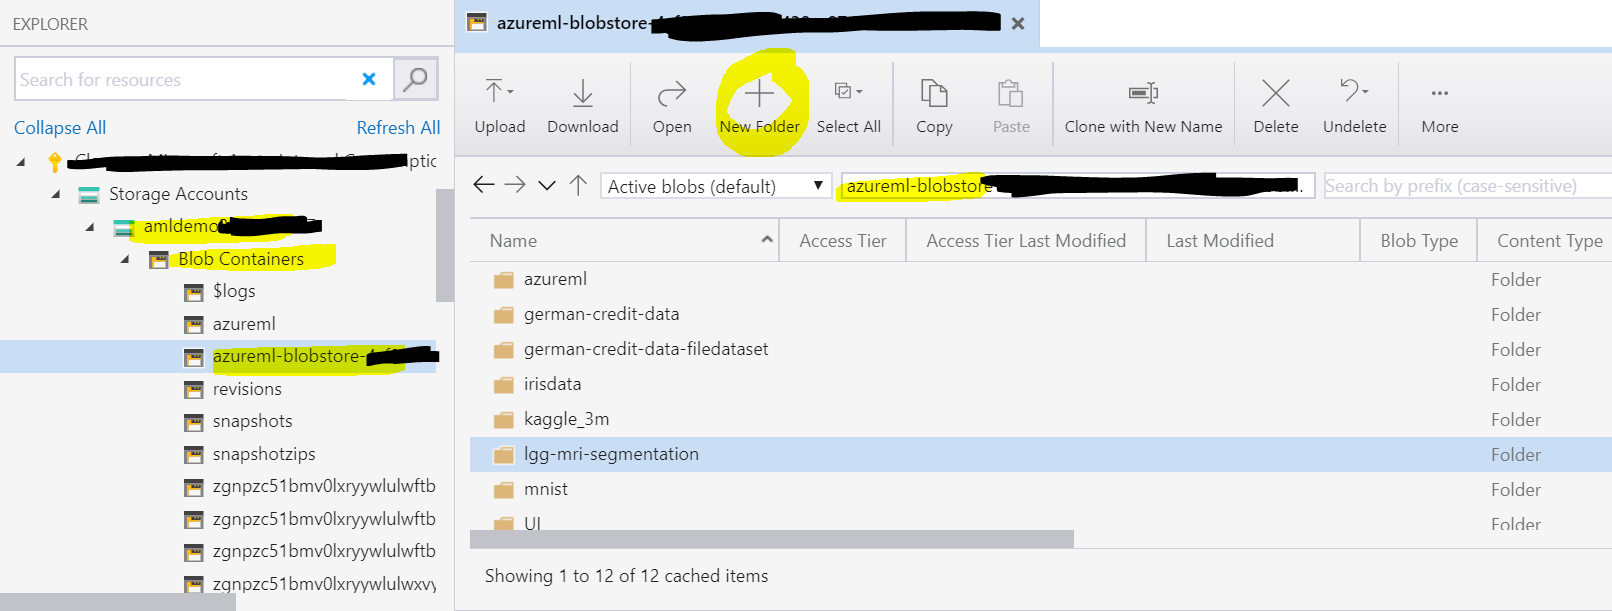
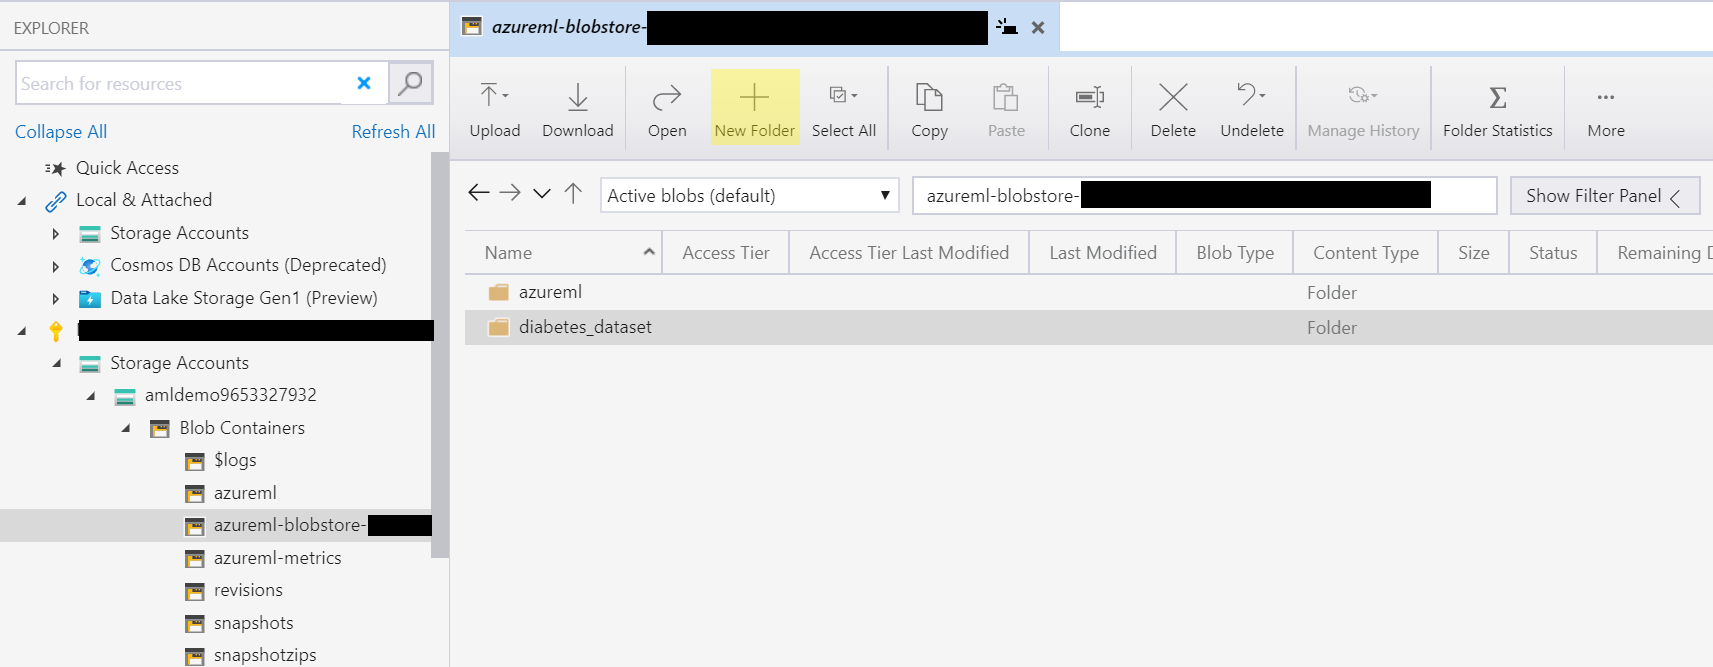
Update dataset screenshot

diff --git a/instructions/02-training.md b/instructions/02-training.md
@@ -63,7 +63,7 @@ This is the target architecture we'll use for this section:
     * *Option 1* - Using Azure Storage Explorer:
         * Install [Azure Storage Explorer](https://azure.microsoft.com/en-us/features/storage-explorer/)
         * Navigate into the correct subscription, then select the `Storage Account` that belongs to the AML workspace (should be named similar to the workspace with some random number), then select `Blob Containers` and find the container named `azureml-blobstore-...`
-        * In this container, create a new folder for your dataset, you can name it `training_data`
+        * In this container, create a new folder for your dataset, in this example is names `diabetes_dataset`
         ![alt text](media/01-create_new_folder.png "Create new folder")       
         * Upload your data to that new folder
         * **Note:** For production, our data will obviously come from a separate data source, e.g., an Azure Data Lake
